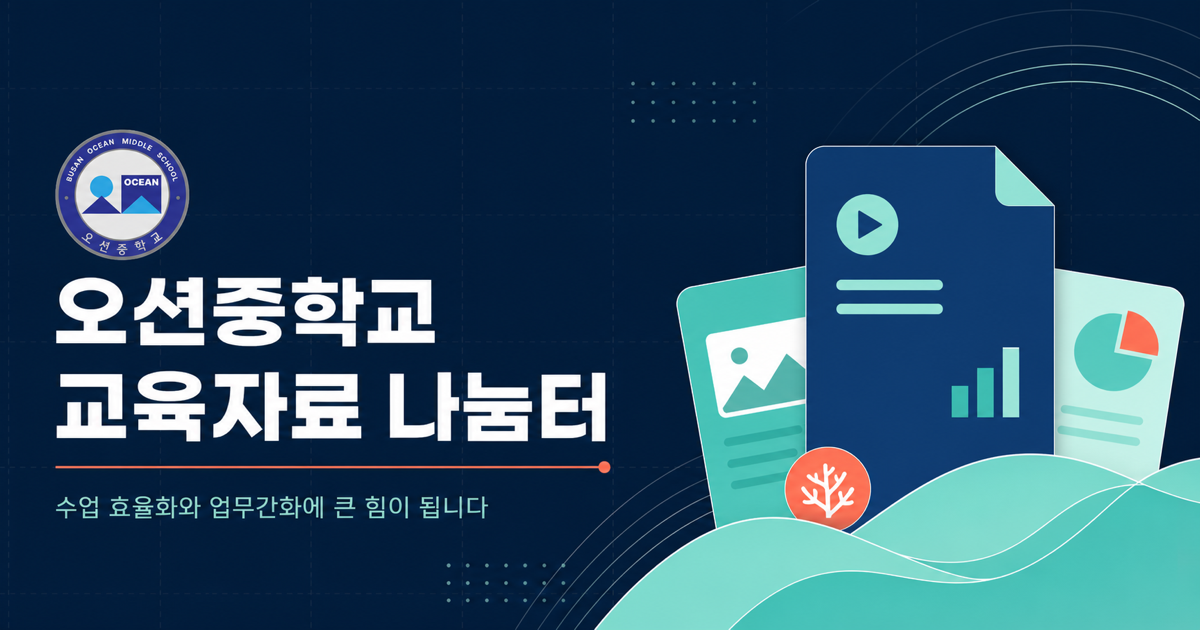
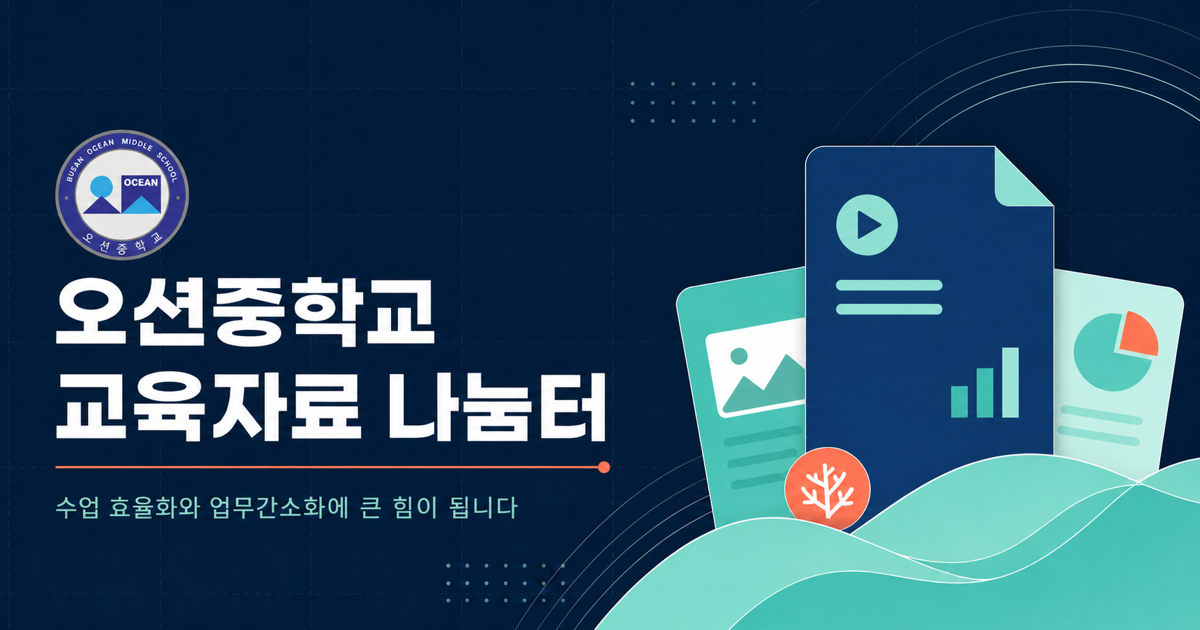
copy: correct portal headline wording

diff --git a/app/layout.tsx b/app/layout.tsx
@@ -18,7 +18,7 @@ export async function generateMetadata(): Promise<Metadata> {
     },
     openGraph: {
       title: "오션중학교 교육자료 나눔터",
-      description: "선생님이 좋은 아이디어가 수업 효율화와 업무간화에 큰 힘이 됩니다",
+      description: "선생님의 좋은 아이디어가 수업 효율화와 업무간소화에 큰 힘이 됩니다",
       type: "website",
       locale: "ko_KR",
       images: imageUrl
@@ -28,7 +28,7 @@ export async function generateMetadata(): Promise<Metadata> {
     twitter: {
       card: "summary_large_image",
       title: "오션중학교 교육자료 나눔터",
-      description: "선생님이 좋은 아이디어가 수업 효율화와 업무간화에 큰 힘이 됩니다",
+      description: "선생님의 좋은 아이디어가 수업 효율화와 업무간소화에 큰 힘이 됩니다",
       images: imageUrl ? [imageUrl] : undefined,
     },
   };

diff --git a/app/page.tsx b/app/page.tsx
@@ -305,9 +305,9 @@ export default function Home() {
               OCEAN MIDDLE SCHOOL · TEACHER-MADE
             </p>
             <h1>
-              선생님이 좋은 아이디어가
+              선생님의 좋은 아이디어가
               <br />
-              <em>수업 효율화와 업무간화</em>에 큰 힘이 됩니다
+              <em>수업 효율화와 업무간소화</em>에 큰 힘이 됩니다
             </h1>
             <p className="hero-copy">
               오션중학교 선생님들이 직접 만든 웹앱과 교육자료를 한곳에서
